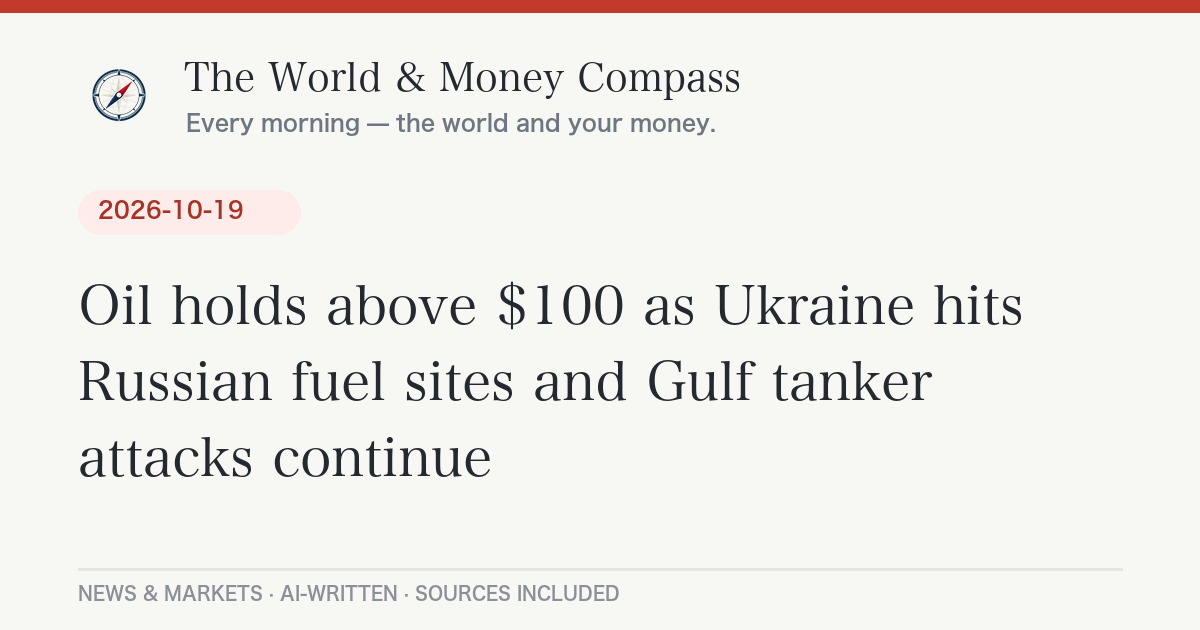
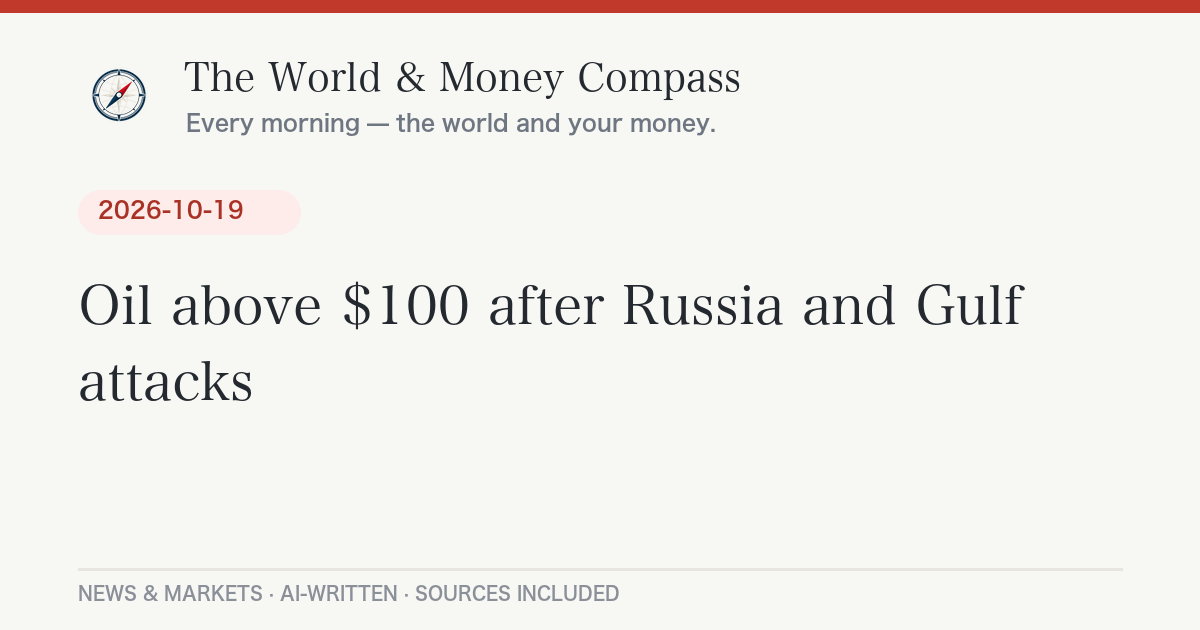
Daily briefing 2026-10-21

Changed region(s): [[0.1233, 0.4524, 0.8633, 0.5127], [0.0617, 0.573, 0.7708, 0.6333], [0.0617, 0.6937, 0.4008, 0.754]]

diff --git a/_posts/2026-10-21-daily-briefing.md b/_posts/2026-10-21-daily-briefing.md
@@ -1,0 +1,109 @@
+---
+layout: post
+lang: ja
+title: "日経平均841円安、AI債務不安と原油高が重荷｜10月21日のニュースとお金"
+date: 2026-10-21 07:40:23 +0900
+categories: [ニュース, 経済]
+headline: "日経平均841円安、AI債務不安と原油高が重荷"
+permalink: /2026/10/21/daily-briefing/
+---
+
+## 今日のポイント
+
+東京市場では、AI関連企業の借金への不安と原油高が重なり、日経平均が大きく値下がりしました。一方のニューヨークでは、お金がハイテク株から医薬品などの「守りの株」へ移り、ダウ平均が上昇。中東情勢をめぐる和平交渉のうわさで原油価格が乱高下し、市場全体が「ニュース一本で大きく揺れる」神経質な状態が続いています。
+
+## 今日の羅針盤（Compass Insight）
+
+この日の相場を貫くキーワードは「資金の逃げ場探し」です。東京では、米国のAIデータセンター企業コアウィーブをめぐる債務不安が再燃し、半導体やソフトバンクグループなどAI関連株がまとめて売られました。ニューヨークでも、ハイテク株が足踏みする一方で、医薬品や公益といった景気に左右されにくい分野に資金が向かいました。AIブームそのものが終わったわけではありませんが、「巨額の設備投資を借金でまかなう構図は大丈夫か」という疑問が、株価の上値を抑え始めています。
+
+家計への影響で見逃せないのは原油です。WTI原油は1バレル100ドルを超える高い水準にあり、ドル円も158円台と円安が続いています。原油高と円安が重なると、ガソリン代や電気・ガス代、輸入食品の値段に跳ね返りやすくなります。米国では住宅ローン金利が7%台に乗り、住宅市場が冷え込んでいることも伝えられており、物価高と高金利が暮らしを圧迫する流れは日米共通の課題です。
+
+短期的には、米国とイランの交渉の行方と、来週予定の日銀の金融政策決定会合（29〜30日）に注目です。中長期では、AI関連企業の資金繰りと、原油高が物価にどこまで波及するかが、株式・住宅ローン・家計のすべてに影響する可能性があります。
+
+## 今日のニュース
+
+### 日本
+
+- **高市政権が発足から1年**：21日で就任1年を迎えます。内閣支持率は読売新聞の調査で[ほぼ横ばいの57%](https://news.yahoo.co.jp/articles/e0223aab8ed42ed00f311bc41406e6d557ac7aa6)と依然高い一方、調査によっては低下も伝えられています。
+- **北海道新聞記者のロシア拘束**：木原官房長官は20日、領事面会が実現していないことを「遺憾」とし、[即時解放などをロシア側に強く求める](https://www.nippon.com/ja/news/yjj2026102000356/)と述べました。
+- **岩井コスモ証券にサイバー攻撃**：委託先システムへの不正アクセスで、[顧客の意図しない売買注文が出され、一部は成立](https://373news.com/news/national/detail/2026102001001745)していたと発表しました。
+- **警察官らの個人情報流出の恐れ**：不正アクセスにより、全国22府県警に関わる[個人情報約12万5000件が流出した恐れ](https://news.yahoo.co.jp/articles/6c80fad9929e452d3b802fdb802dc5685c489ddf)があると報じられています。
+- **武部農相に公選法違反の疑い**：週刊文春が、2024年衆院選の際に公共事業を受注する企業から[献金を受け取っていた疑い](https://news.yahoo.co.jp/articles/c63830f913d8fd91644246d2a8ac998f15b11dda)を報じました。
+- **世界体操で日本男子が団体連覇**：オランダ・ロッテルダムでの世界選手権で、日本が[251.928点で逆転の金メダル](https://news.yahoo.co.jp/articles/b04dad2f3b5b1a3ac71f3f4f335e60fb695b5c50)を獲得し、ロサンゼルス五輪の出場権も得ました。
+- **台風30号に警戒**：猛烈な勢力の台風30号（チャンパー）が週後半に沖縄へ接近する見込みです。最新の進路は気象庁の発表で確認を。
+
+### 世界
+
+- **スーダンで無人機攻撃、300人超死亡と報道**：スーダン軍によるとされる無人機攻撃で、葬儀参列者や燃料市場が被害を受け、[300人以上が死亡](https://www.bbc.co.uk/news/articles/cr3el70jz1nqo)したと関係者が伝えています。
+- **ホルムズ海峡で緊張続く**：ここ2週間で[少なくとも18隻の船舶が攻撃を受けた](https://www.cnbc.com/2026/10/20/oil-price-wti-brent-crude.html)とされ、イラン革命防衛隊は機雷に触れたタンカー2隻が炎上したと主張しています。
+- **カナダ・アルバータ州で分離独立を否決**：住民投票の速報で[3分の2超がカナダ残留を選択](https://www.bbc.co.uk/news/articles/cxr5yqqd7nlpo)し、カーニー首相は「素晴らしい結果」と歓迎しました。
+
+### アメリカ
+
+- **カナダへの50%関税に新たな訴訟**：トランプ大統領が1930年関税法338条を使って課した[カナダ製品への50%関税の差し止めを求める訴訟](https://www.cnbc.com/2026/10/20/trump-tariffs-canada-section-338-lawsuit.html)が起こされました。
+- **ボーイング737MAX10が認可取得**：長年遅れていた[737MAX10について米連邦航空局（FAA）の承認](https://www.cnbc.com/2026/10/20/boeing-737-max-10-certification.html)を得ました。
+- **住宅市場が冷え込み**：9月の住宅販売仮契約指数は[前月比7.3%低下し、2001年以降で最低](https://www.cnbc.com/2026/10/20/housing-mortgage-rates-real-estate-federal-reserve.html)。住宅ローン金利は7.43%と伝えられています。
+
+### ヨーロッパ
+
+- **ウクライナ和平協議（オスロ）**：ゼレンスキー大統領は、米特使ウィトコフ氏との協議を経て、米国の情報共有が[「今は機能している」](https://www.bbc.co.uk/news/articles/cq5ynkx3xy11o)と述べました。ウィトコフ氏は21日にサンクトペテルブルクを訪れる予定です。
+- **フランスで暴動の爪痕**：週末の混乱でマルセイユでは[500以上の店舗が被害](https://www.bbc.co.uk/news/articles/cm5ynkk570pno)を受けたとされ、さらなる混乱に備えています。
+
+## 経済とお金の動き
+
+### 世界の経済と原油・相場
+
+| 指標 | 水準 | 前日比 |
+|---|---|---|
+| 日経平均株価（10/20終値） | [64,075.42円](https://www.daily.co.jp/society/economics/2026/10/20/0020948695.shtml) | <span class="chg-down">-841.28円（-1.30%）</span> |
+| NYダウ（10/20終値・速報値） | [52,513.98ドル](http://www.kitco.com/news/off-the-wire/2026-10-20/dow-leads-wall-street-higher-investors-focus-healthcare-stocks) | <span class="chg-up">+547.95ドル（+1.05%）</span> |
+| S&P500（10/20終値・速報値） | [7,714.52](http://www.kitco.com/news/off-the-wire/2026-10-20/dow-leads-wall-street-higher-investors-focus-healthcare-stocks) | <span class="chg-up">+23.79（+0.31%）</span> |
+| ナスダック総合（10/20終値・速報値） | [26,421.84](http://www.kitco.com/news/off-the-wire/2026-10-20/dow-leads-wall-street-higher-investors-focus-healthcare-stocks) | <span class="chg-down">-9.05（-0.03%）</span> |
+| WTI原油（11月限・10/20清算値） | [101.79ドル/バレル](https://www.cnbc.com/2026/10/20/oil-price-wti-brent-crude.html) | <span class="chg-down">-1.8%</span> |
+| 北海ブレント（12月限） | [108.79ドル/バレル](https://www.cnbc.com/2026/10/20/oil-price-wti-brent-crude.html) | <span class="chg-down">-0.7%</span> |
+| ドル円（ECB参照レート・10/20） | [158.13円](https://api.frankfurter.app/latest?from=USD&to=JPY) | 横ばい圏 |
+
+原油は、米国とイランの間で妥協案がまとまりつつあるという報道で一時大きく下げましたが、その後「合意は近くない」との報道も出て、値動きの荒い一日となりました。WTIは一時110ドル台まで上昇してから押し戻されています。なお、WTIの11月限はこの日が最終取引日で、12月限は98.28ドルでした。ホルムズ海峡での船舶攻撃が続いている限り、原油が高止まりしやすい状況に変わりはありません。
+
+### アメリカの経済
+
+米国株は「ハイテクから守りへ」の資金移動が鮮明でした。医薬品セクターが[S&P500のヘルスケア指数で過去最高値](http://www.kitco.com/news/off-the-wire/2026-10-20/dow-leads-wall-street-higher-investors-focus-healthcare-stocks)を付け、イーライリリーやユナイテッドヘルスなどがダウを押し上げました。一方、住宅市場の冷え込みは深刻で、物価高が続く中でFRBが利上げを検討していることから、住宅ローン金利がさらに上がる可能性も指摘されています。物価と景気の板挟みという難しい局面です。
+
+### 日本の経済
+
+日経平均は2日続落で、[下げ幅は一時1,100円を超えました](https://finance.biggo.jp/news/9fec4113-d707-45f5-b87f-598e006419bc)。米コアウィーブをめぐる債務不安からAI・半導体関連が売られ、[原油高も重荷](https://news.yahoo.co.jp/articles/d269e29c87fb606e4c37e1e5dfcb7920822d8b86)になりました。為替は東京市場の夕方時点で[1ドル＝158円台前半](https://www.chunichi.co.jp/article/1327846)と円安水準が続いています。日銀は[9月に政策金利を1.25%へ引き上げ](https://www.nikkei.com/article/DGXZQOUB1809Y0Y6A910C2000000/)ており、29〜30日の会合では追加利上げを[見送る公算が大きいとロイター通信が報道](https://www.nikkei.com/article/DGXZQOFL204XW0Q6A021C2000000/)しています。
+
+## 今日の注目銘柄・セクター
+
+- **ソフトバンクグループ・半導体関連**：AIデータセンター企業の債務不安が広がり、AI関連の代表銘柄として売られました。日経平均の下げのかなりの部分を占めたとする分析もあります。
+- **米ヘルスケア株（イーライリリーなど）**：ハイテク株から資金が移り、ヘルスケア指数が過去最高値に。景気や金利の変動に強い「守りの株」として注目されました。
+- **ブレイズ（Braze）**：セールスフォースが約56.6億ドルで買収すると発表し、株価は[51%超上昇して45.57ドル](https://www.cnbc.com/2026/10/20/salesforce-braze-acquisition-deal.html)で引けました。
+- **ネットフリックス**：7〜9月期決算は利益が予想を上回ったものの、通期売上高見通しが市場予想を下回り、[時間外取引で約6%下落](https://www.cnbc.com/2026/10/20/netflix-nflx-earnings-q3-2026.html)しました。
+
+*※特定銘柄の売買を推奨するものではありません。投資判断はご自身の責任で。*
+
+## まとめ：注目の3つ
+
+1. **AI関連の「借金」への不安**：コアウィーブ問題が東京市場のAI・半導体株を直撃。AIブームの資金繰りに市場の目が向いています。
+2. **原油100ドル超と円安**：米イラン交渉のうわさで乱高下。ガソリン代や光熱費への影響が続く可能性があります。
+3. **日銀会合（29〜30日）と米国の利上げ観測**：日米の金利の行方が、円相場や住宅ローン金利を左右します。
+
+---
+<div class="post-sources" markdown="1">
+
+**出典：**
+- [共同通信（デイリースポーツ）・東証続落、終値は841円安](https://www.daily.co.jp/society/economics/2026/10/20/0020948695.shtml)
+- [共同通信（Yahoo!ニュース）・東証続落、半導体株に売り、原油高も重荷](https://news.yahoo.co.jp/articles/d269e29c87fb606e4c37e1e5dfcb7920822d8b86)
+- [Reuters（Kitco転載）・Dow leads Wall Street higher, investors focus on healthcare stocks](http://www.kitco.com/news/off-the-wire/2026-10-20/dow-leads-wall-street-higher-investors-focus-healthcare-stocks)
+- [CNBC・Oil prices fall as traders hope for diplomatic progress in Middle East](https://www.cnbc.com/2026/10/20/oil-price-wti-brent-crude.html)
+- [CNBC・Housing is flashing warning signs](https://www.cnbc.com/2026/10/20/housing-mortgage-rates-real-estate-federal-reserve.html)
+- [CNBC・Trump sued over 50% tariffs on Canada](https://www.cnbc.com/2026/10/20/trump-tariffs-canada-section-338-lawsuit.html)
+- [BBC・Zelensky says US intelligence sharing 'works now'](https://www.bbc.co.uk/news/articles/cq5ynkx3xy11o)
+- [BBC・Sudan army drones hit mourners and fuel market](https://www.bbc.co.uk/news/articles/cr3el70jz1nqo)
+- [nippon.com（時事）・領事面会実現せず「遺憾」＝木原官房長官](https://www.nippon.com/ja/news/yjj2026102000356/)
+- [日本経済新聞・外為17時 円相場、3日ぶり反発 158円近辺](https://www.nikkei.com/article/DGXZQOFL204XW0Q6A021C2000000/)
+- 市場データ: [frankfurter API](https://api.frankfurter.app/) ／ 各社報道（Yahoo Financeはレート制限で取得不可のため報道値を使用）
+
+*本記事は公開情報をもとに作成しています。*
+
+</div>

diff --git a/_posts/2026-10-21-daily-briefing-en.md b/_posts/2026-10-21-daily-briefing-en.md
@@ -1,0 +1,59 @@
+---
+layout: post
+lang: en
+title: "Dow jumps 1% as money rotates from tech into healthcare — October 21, 2026"
+date: 2026-10-21 07:40:23 +0900
+headline: "Dow jumps 1% as money rotates from tech into healthcare"
+permalink: /2026/10/21/daily-briefing/
+---
+
+## Top U.S. Stories
+
+- **Dow leads Wall Street higher on a healthcare rally.** The Dow rose [547.95 points, or 1.05%, to 52,513.98](http://www.kitco.com/news/off-the-wire/2026-10-20/dow-leads-wall-street-higher-investors-focus-healthcare-stocks) on preliminary data, as the S&P 500 healthcare sector hit a record high while tech lagged.
+  *Why it matters:* Investors are hedging AI risk by moving into defensive sectors rather than leaving stocks altogether.
+- **Housing slides into a "deep freeze."** Pending home sales fell [7.3% in September to the lowest level in records back to 2001](https://www.cnbc.com/2026/10/20/housing-mortgage-rates-real-estate-federal-reserve.html), with mortgage rates at 7.43%.
+  *Why it matters:* If the Fed raises rates to fight inflation, borrowing costs for homebuyers could climb further.
+- **New lawsuit targets 50% tariffs on Canada.** A New Jersey food importer sued to block tariffs imposed under [Section 338 of the 1930 Tariff Act](https://www.cnbc.com/2026/10/20/trump-tariffs-canada-section-338-lawsuit.html), seeking refunds with interest.
+  *Why it matters:* After the Supreme Court struck down the "reciprocal" tariffs in February, courts remain a key check on trade policy.
+- **Boeing wins FAA approval for the 737 Max 10** [after years of delays](https://www.cnbc.com/2026/10/20/boeing-737-max-10-certification.html).
+- **Netflix beats on earnings, but shares fall.** Its full-year revenue forecast of $51.1 billion came in below estimates, and [shares dropped about 6% after hours](https://www.cnbc.com/2026/10/20/netflix-nflx-earnings-q3-2026.html).
+- **Abroad:** Zelensky said U.S. intelligence sharing ["works now"](https://www.bbc.co.uk/news/articles/cq5ynkx3xy11o) after talks with envoy Steve Witkoff in Oslo, and Alberta voters [rejected separation from Canada](https://www.bbc.co.uk/news/articles/cxr5yqqd7nlpo).
+
+## Compass Insight
+
+Tuesday's tape was less about direction than about where money hides. Tech paused, while healthcare, utilities and small caps drew buyers — a sign that investors still want equity exposure but are growing wary of AI names funded by heavy borrowing. In Tokyo, the same worry hit harder: concerns over CoreWeave's debt helped drag the Nikkei down more than 800 yen. Meanwhile, oil swung wildly on rumors of a U.S.-Iran compromise, showing how headline-driven energy prices have become with crude near $100. In the short term, watch Iran-related headlines and the Fed's tone on further hikes. Over the longer run, the key questions are whether AI capital spending stays financeable and how far high oil prices feed into inflation and mortgage rates.
+
+## Markets
+
+- **Dow:** [52,513.98](http://www.kitco.com/news/off-the-wire/2026-10-20/dow-leads-wall-street-higher-investors-focus-healthcare-stocks), <span class="chg-up">+1.05%</span> (preliminary)
+- **S&P 500:** 7,714.52, <span class="chg-up">+0.31%</span>; **Nasdaq Composite:** 26,421.84, <span class="chg-down">-0.03%</span>
+- **Oil:** November WTI, which expired Tuesday, settled at [$101.79 (-1.8%)](https://www.cnbc.com/2026/10/20/oil-price-wti-brent-crude.html) after touching $110.48; Brent settled at $108.79 (-0.7%).
+- **Japan:** The Nikkei fell [841.28 yen to 64,075.42](https://www.daily.co.jp/society/economics/2026/10/20/0020948695.shtml) on AI-debt jitters and higher oil. USD/JPY was [158.13](https://api.frankfurter.app/latest?from=USD&to=JPY) (ECB reference rate, Oct. 20).
+
+## Stocks in Focus
+
+- **Braze:** Salesforce agreed to buy it for about $5.66 billion; shares [soared more than 51% to close at $45.57](https://www.cnbc.com/2026/10/20/salesforce-braze-acquisition-deal.html).
+- **Eli Lilly, UnitedHealth, Merck:** Led the healthcare rally that lifted the Dow.
+- **Netflix:** Fell after hours on soft revenue and advertising guidance.
+
+*Not a recommendation to buy or sell any security.*
+
+---
+<div class="post-sources" markdown="1">
+
+**Sources:**
+- [Reuters via Kitco — Dow leads Wall Street higher, investors focus on healthcare stocks](http://www.kitco.com/news/off-the-wire/2026-10-20/dow-leads-wall-street-higher-investors-focus-healthcare-stocks)
+- [CNBC — Housing is flashing warning signs](https://www.cnbc.com/2026/10/20/housing-mortgage-rates-real-estate-federal-reserve.html)
+- [CNBC — Trump sued over 50% tariffs on Canada](https://www.cnbc.com/2026/10/20/trump-tariffs-canada-section-338-lawsuit.html)
+- [CNBC — Boeing wins FAA approval for 737 Max 10](https://www.cnbc.com/2026/10/20/boeing-737-max-10-certification.html)
+- [CNBC — Netflix Q3 earnings](https://www.cnbc.com/2026/10/20/netflix-nflx-earnings-q3-2026.html)
+- [CNBC — Oil prices fall as traders hope for diplomatic progress](https://www.cnbc.com/2026/10/20/oil-price-wti-brent-crude.html)
+- [CNBC — Salesforce to buy Braze](https://www.cnbc.com/2026/10/20/salesforce-braze-acquisition-deal.html)
+- [BBC — Zelensky says US intelligence sharing 'works now'](https://www.bbc.co.uk/news/articles/cq5ynkx3xy11o)
+- [BBC — Alberta votes to reject separatism](https://www.bbc.co.uk/news/articles/cxr5yqqd7nlpo)
+- [Kyodo via Daily Sports — Nikkei closes 841 yen lower](https://www.daily.co.jp/society/economics/2026/10/20/0020948695.shtml)
+- Market data: [frankfurter API](https://api.frankfurter.app/) / news reports
+
+</div>
+
+*Auto-generated and AI-written. Not investment advice.*
